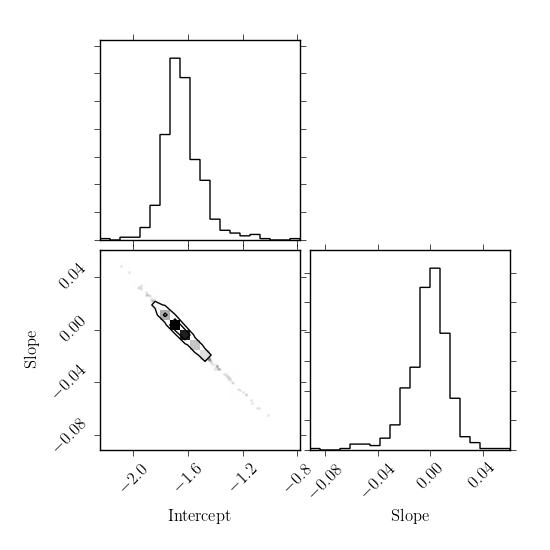
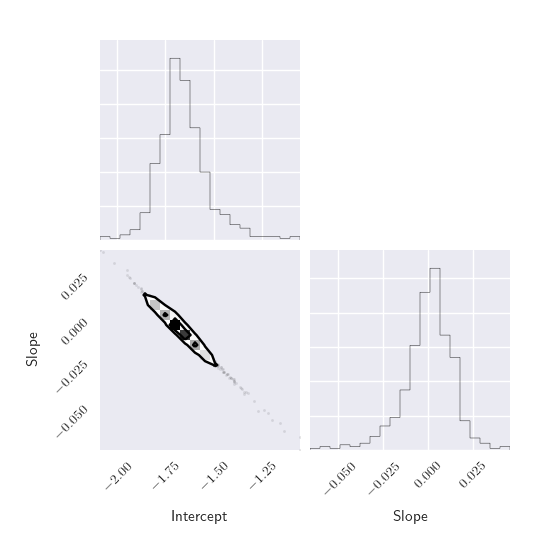
Split ransac fit to ransac.py. main.py now draws KDE and finds approximate line of highest density

diff --git a/ransac.py b/ransac.py
@@ -1,30 +1,23 @@
-# !/usr/bin/env python
+# !/usr/bin/env python3
 # -*- coding: utf-8 -*-
 # Oliver J. Hall
 
 import numpy as np
-import pandas as pd
-
-import glob
-import sys
-import corner as corner
-from tqdm import tqdm
-
-import matplotlib
-import seaborn as sns
 import matplotlib.pyplot as plt
 from mpl_toolkits.mplot3d import Axes3D
+import pandas as pd
+import glob
+import sys
+import matplotlib
 matplotlib.rcParams['xtick.direction'] = 'out'
 matplotlib.rcParams['ytick.direction'] = 'out'
 
 from statsmodels.robust.scale import mad as mad_calc
 from sklearn import linear_model
-import scipy.stats as stats
+import corner as corner
 
 import astropy.coordinates as coord
 import gaia.tap as gt
-
-
 
 def get_values(df):
     '''This function corrects for extinction and sets the RC search range'''
@@ -93,51 +86,62 @@ if __name__ == '__main__':
         ax[0].set_xlim(-2.0,-0.25)
         ax[0].set_ylim(7.0,10.0)
 
-        ''' x = M_ks
-            y = m_ks
-        '''
+        '''Time for a RANSAC plot'''
+        iters = 500
         x = M_ks
         y = m_ks
+        Y = y.reshape((len(y),1))
+        line_Y = np.arange(0,len(Y))
 
-        #Getting the KDE of the 2D distribution
-        xxyy = np.ones([len(x),2])
-        xxyy[:,0] = x
-        xxyy[:,1] = y
-        kde = stats.gaussian_kde(xxyy.T)
+        #Setting up the array
+        sample = np.ones([iters,2])
+        mask = np.zeros(len(y))
 
-        #Setting up a 2D meshgrid
-        size = 50
-        xx = np.linspace(x.min(),x.max(),size)
-        yy = np.linspace(y.min(),y.max(),size)
-        X, Y = np.meshgrid(xx,yy)
-        d = np.ones([size,size])
+        #Iterating over multiple RANSAC runs
+        for i in range(iters):
+            sample[i], inlier_mask = linear(x,y,Y)
+            mask += np.ones(len(inlier_mask)) * inlier_mask
 
-        #Calculating the KDE value for each point on the grid
-        for idx, i in tqdm(enumerate(xx)):
-            for jdx, j in enumerate(yy):
-                d[jdx,idx] = kde([i,j])
+        #Plotting a cornerplot
+        labels = ['Intercept','Slope']
+        figc = corner.corner(sample, labels=labels)
 
-        #Rough attempt at finding line of highest density
-        line = np.zeros_like(yy)
-        for idy, row in enumerate(yy):
-            space = d[idy]
-            med = np.nanmax(space)
-            line[idy] = xx[space==med]
+        #Taking median results
+        results = np.zeros(2)
+        results[0] = np.median(sample[:,0])
+        results[1] = np.median(sample[:,1])
 
-        ax[1].hist2d(xxyy[:,0],xxyy[:,1],bins=np.sqrt(len(x)))
-        ax[1].contour(X,Y,d,10,cmap='copper')
-        ax[1].plot(line,yy,c='r')
+        #Flipping axes
+        ly = np.linspace(y.min(),y.max(),100)
+        lx = results[0] + results[1]*ly
+
+        #Taking inliers in more than 50% of cases
+        mask = mask > (iters/2)
+
+        '''Plotting results'''
+        # ax[1].scatter(M_ks[mask],m_ks[mask],s=5,color='yellowgreen',label='Inliers')
+        # ax[1].scatter(M_ks[~mask],m_ks[~mask],s=5,color='grey',label='Outliers')
+        ax[1].hist2d(x,y,bins=np.sqrt(len(x)))
+        ax[1].plot(lx,ly,c='red',lw=2,label='RANSAC fit')
+
         ax[1].set_xlabel('Absolute K-band magnitude')
         ax[1].set_ylabel('Apparent K-band magnitude')
-        ax[1].axvline(-1.626,c='k',linestyle='--') # Hawkins+17
-        ax[1].axvline(-1.626+0.057, c='r', linestyle='-.')
-        ax[1].axvline(-1.626-0.057, c='r', linestyle='-.')
+        ax[1].axvline(-1.626,c='y',lw=3,linestyle='--',label='Hawkins+17') # Hawkins+17
+        ax[1].axvline(-1.626+0.057, c='y', lw=2,linestyle='-.')
+        ax[1].axvline(-1.626-0.057, c='y', lw=2,linestyle='-.')
         ax[1].set_xlim(-2.0,-0.25)
         ax[1].set_ylim(7.0,10.0)
+        ax[1].legend()
 
         fig.tight_layout()
-        plt.show()
+        fig.savefig('ransac.png')
+        figc.savefig('ransac_corner.png')
+
+        plt.show('all')
         plt.close('all')
+
+
+
 
     gaia_on_tap = False
     if gaia_on_tap:
